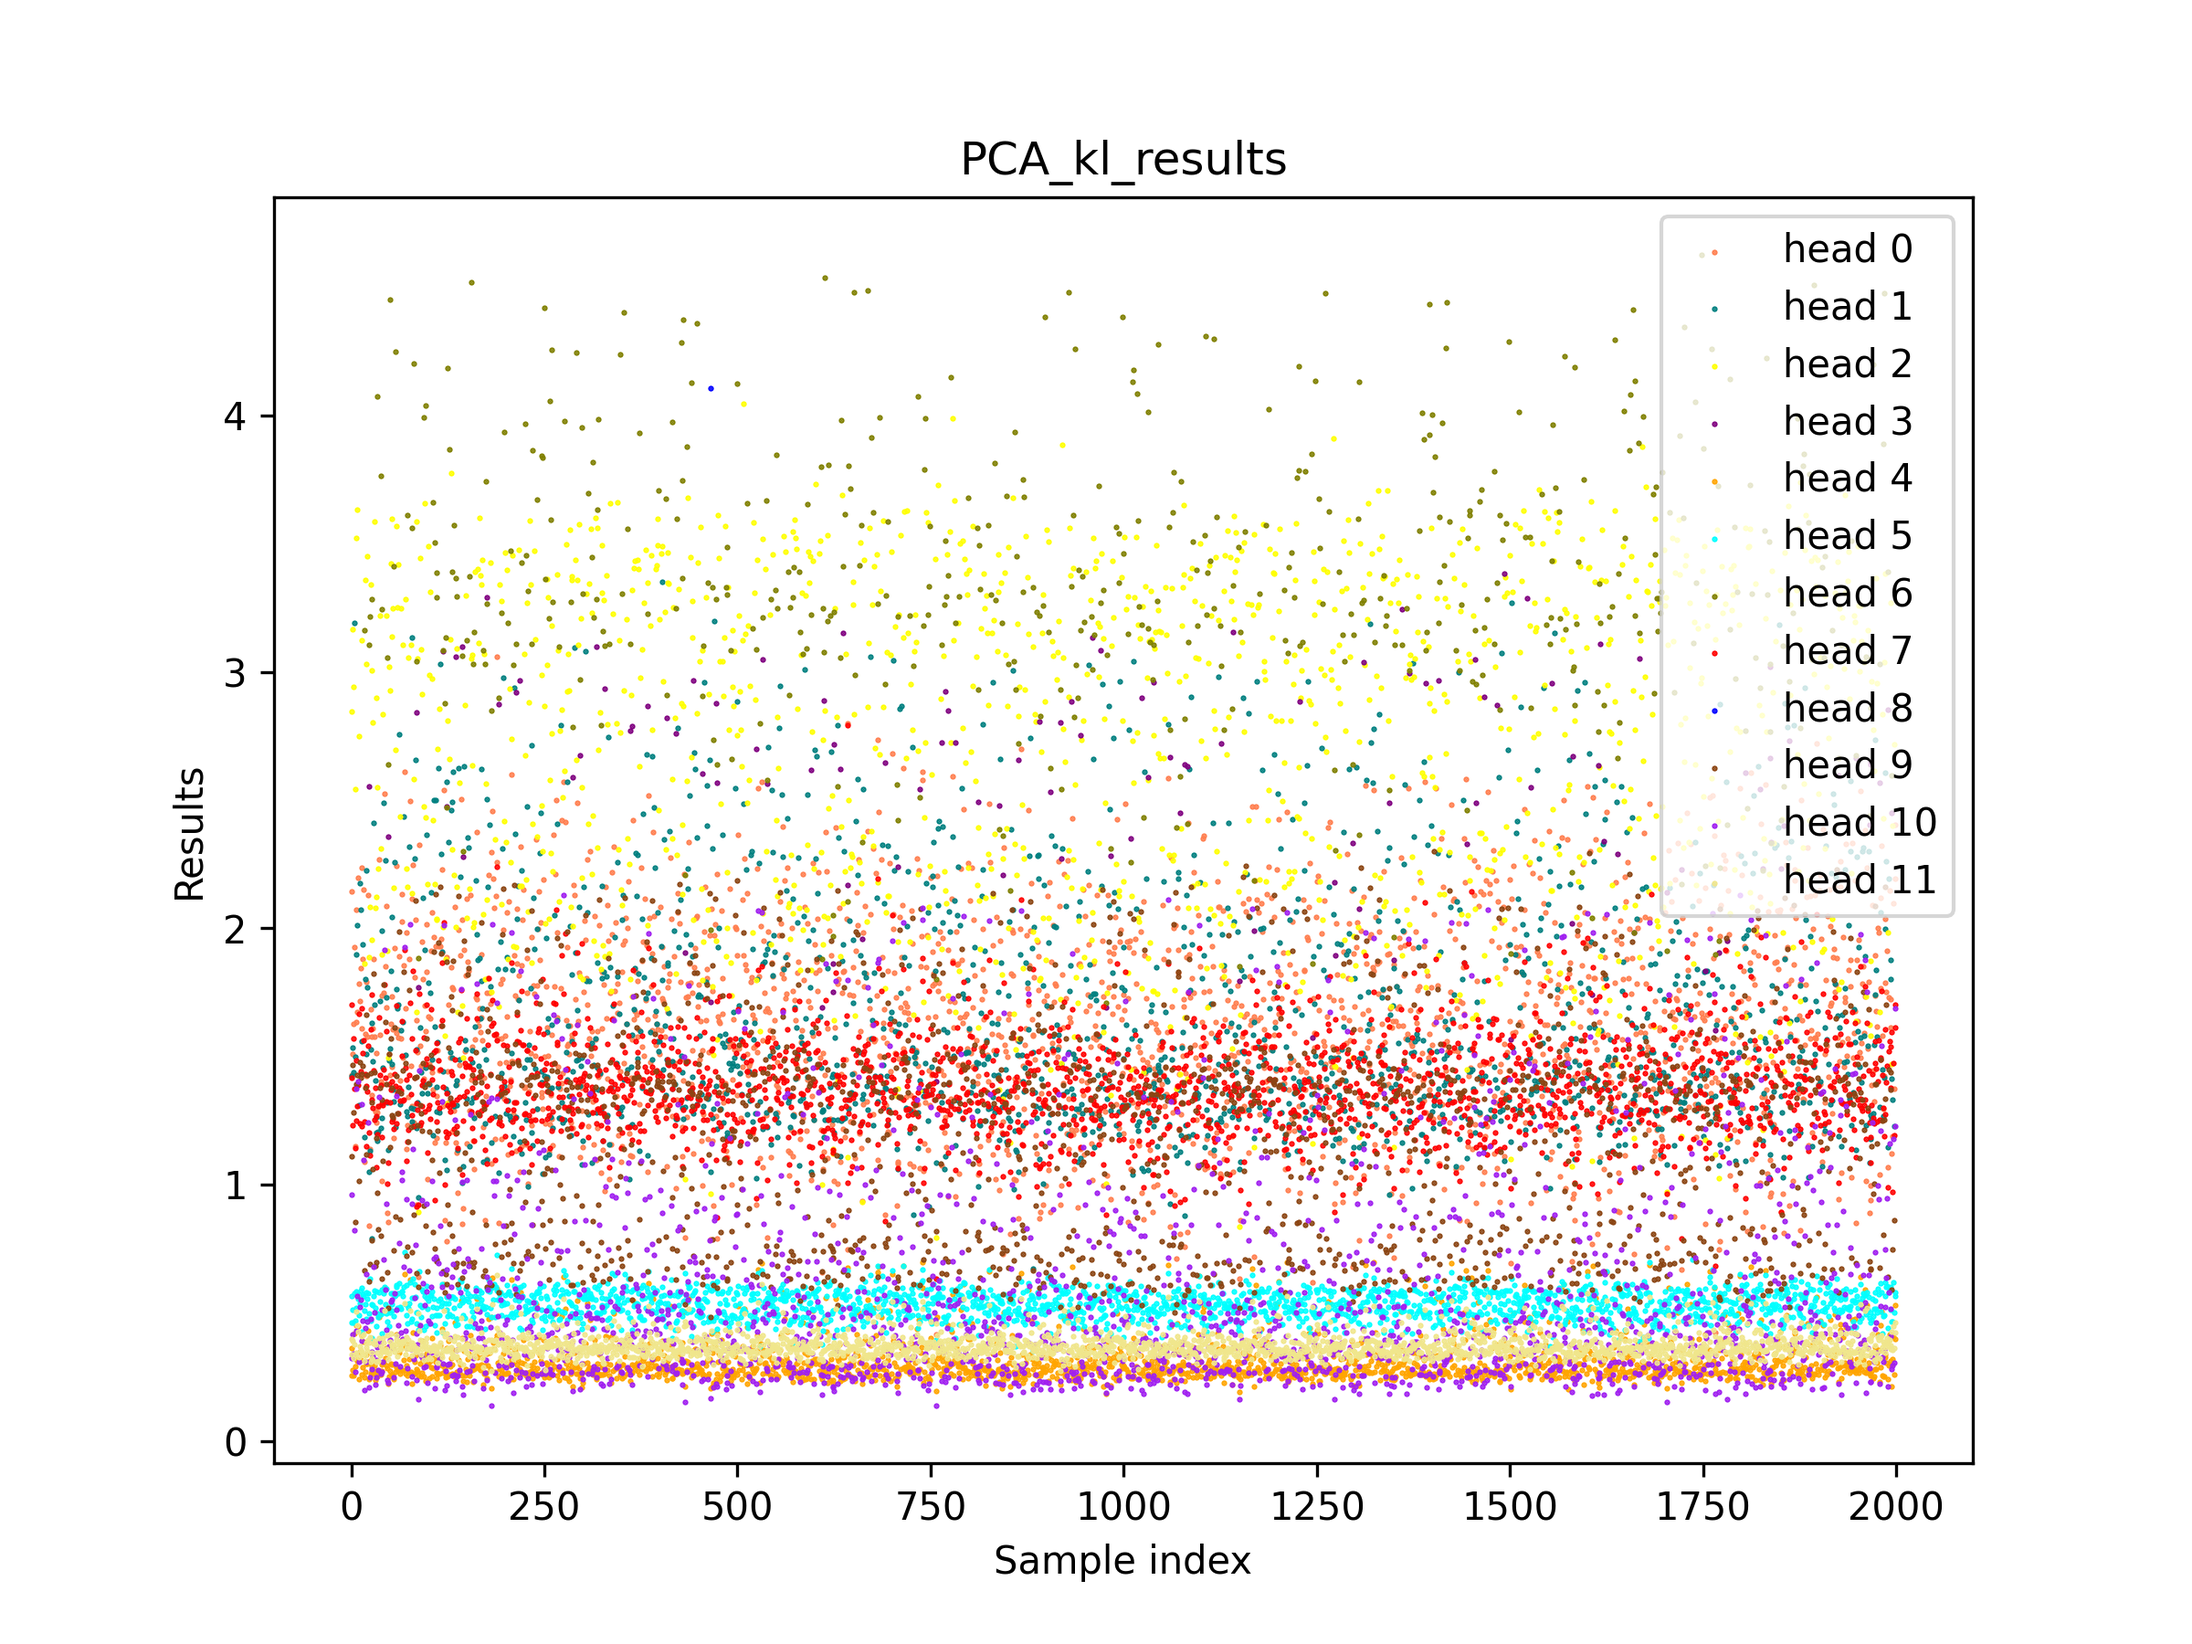
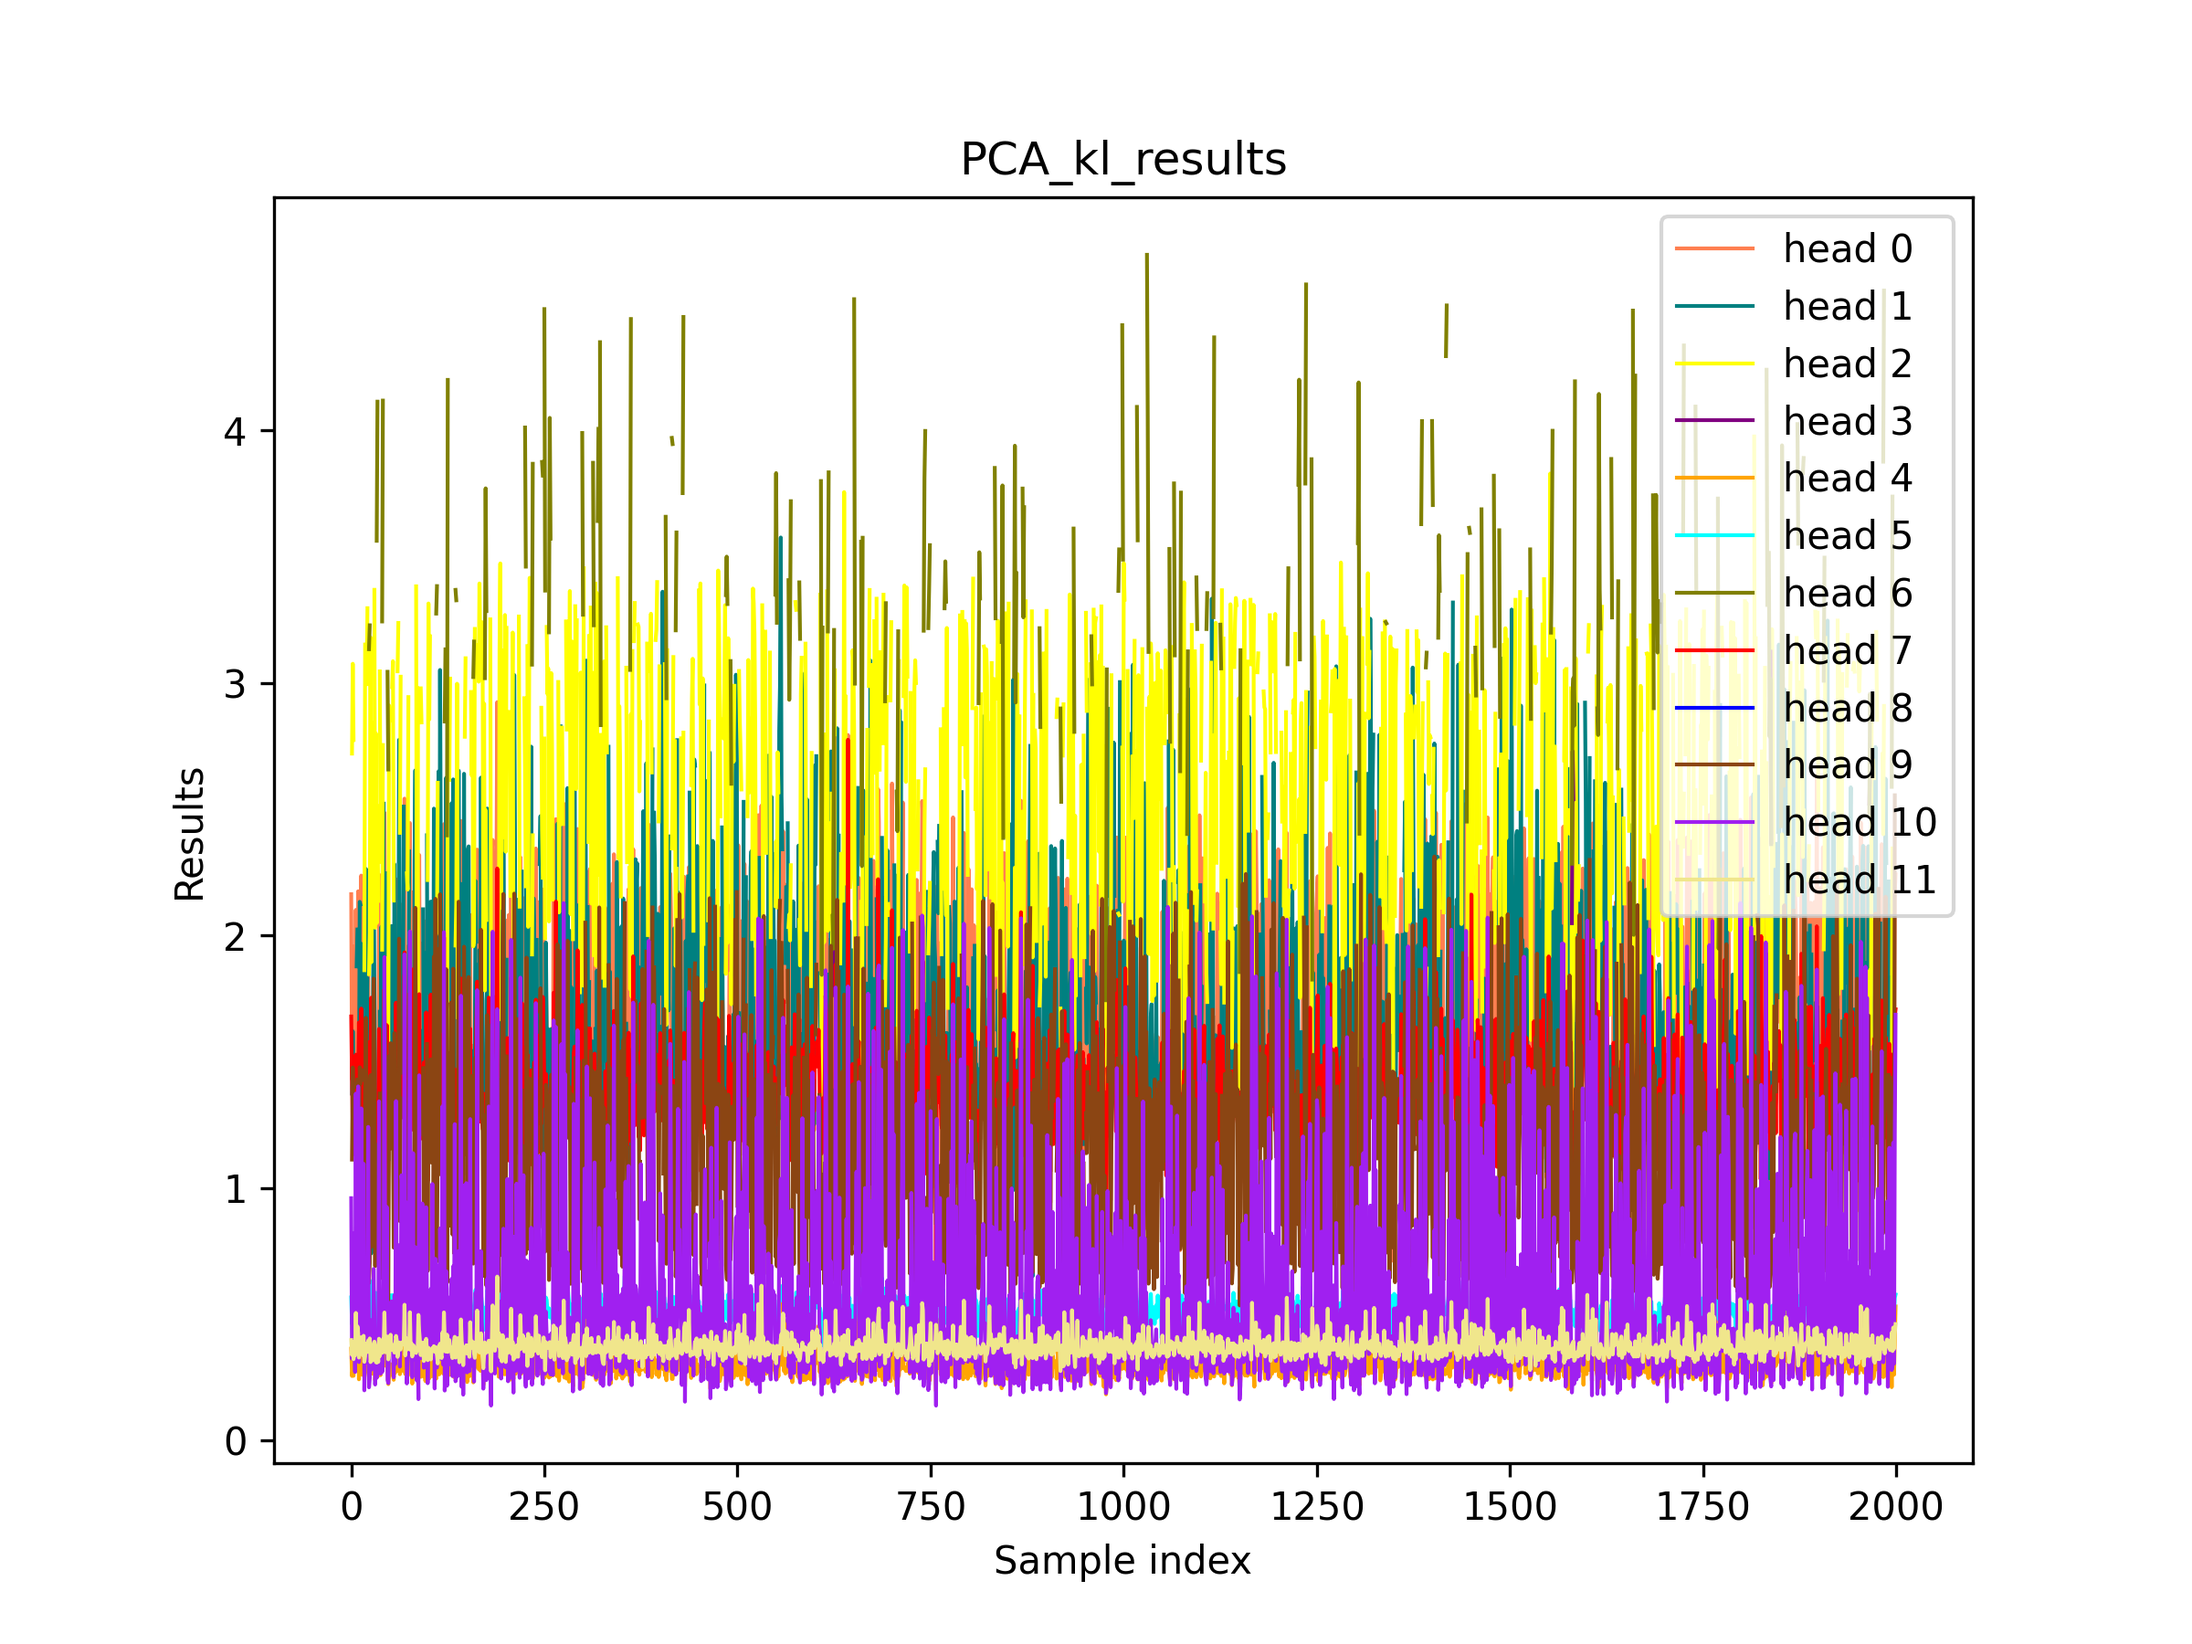
plot res instead of scatter

diff --git a/dimension_check.py b/dimension_check.py
@@ -239,7 +239,7 @@ def plt_sim_res(res, note):
             title = f"{key}_{sim}_results"
             for head in range(head_nums):
                 y = [sample[head][sim] for sample in res[key]]
-                plt.scatter(x, y, marker='.', c=COLOR[head], label=f'head {head}', s=1)
+                plt.plot(x, y, c=COLOR[head], label=f'head {head}', linewidth=1)
             plt.xlabel('Sample index')
             plt.ylabel('Results')
             plt.title(title)
